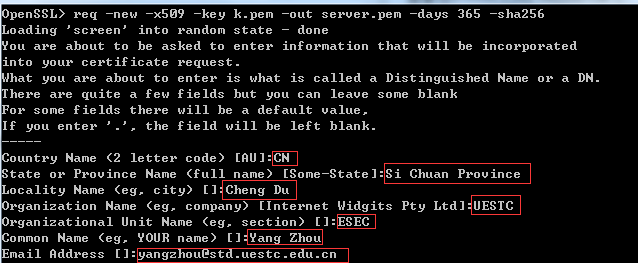
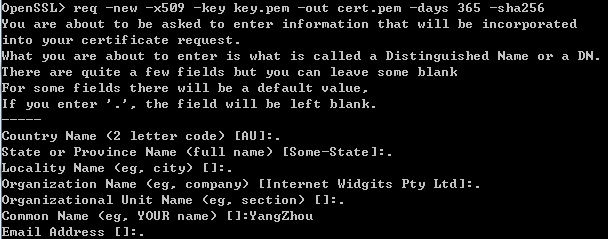
完成attestation证书生成并分析；上传了密钥文件和证书文件

Changed region(s): [[0.0, 0.0, 1.0, 1.0]]

diff --git a/doc/Attestation证书生成.md b/doc/Attestation证书生成.md
@@ -1,3 +1,4 @@
+*本文档使用openssl 1.0.2e*
 首先，打开openssl，使用命令：
 >ecparam -list_curves
 
@@ -7,22 +8,91 @@ u2f规范中对签名算法的要求是ECDSA signature(on P-256)，其实就是N
 然后输入：
 >ecparam -name secp256r1 -genkey -out key.pem
 
-就会生成公私钥文件key.pem。可以通过以下命令查看：
+就会生成公私钥文件key.pem。可以通过以下命令查看：  
 >ec -in key.pem -noout -text
 
 ![](./res/key.png)  
 私钥32字节，公钥65字节（https://www.ietf.org/rfc/rfc5480.txt，根据这个文献，公钥第一字节0x04表示uncompressed，如果是0x02 or 0x03则表示compressed，u2f要求是uncompressed）
 
 然后就可以开始生成自签名证书：  
->req -new -x509 -key k.pem -out server.pem -days 365 -sha256
+>req -new -x509 -key key.pem -out cert.pem -days 365 -sha256
 
-**注意，u2f对证书签名时所作hash算法没要求，但是最好是sha256，但是这里命令里的-sha256并没有作用，因为此版本openssl(0.9.8l)还不支持sha256**  
-然后会要求输入一堆信息，之后就会生成证书server.pem：
+~~**注意，u2f对证书签名时所作hash算法没要求，但是最好是sha256，但是这里命令里的-sha256并没有作用，因为此版本openssl(0.9.8l)还不支持sha256**~~  
+**openssl 1.0.2e支持sha256摘要**
+
+
+然后会要求输入一堆信息，之后就会生成证书cert.pem：
 ![](./res/gen-cert-input.png)  
 查看证书命令：
->x509 -in server.pem -text -noout
+>x509 -in cert.pem -text -noout
 
 ![](./res/cert-info.png)  
-可以注意到其中签名算法是ecdsa-with-sha1。
+可以注意到其中签名算法是ecdsa-with-sha256。**还要注意这里版本号是v1，如果要用v3的话，则在生成证书的命令里还要加上 -extensions v3_ca，但是这样就会有一部分证书扩展**
 
 **现在问题是，这些证书都是DER编码的。。。怎么转成二进制编码。。。**
+----
+上面这些命令生成的文件其实都是pem(Privacy Enhanced Mail)格式的。  
+
+**PEM** - Privacy Enhanced Mail,打开看文本格式,以"-----BEGIN..."开头, "-----END..."结尾,内容是BASE64编码.  
+查看PEM格式证书的信息:openssl x509 -in certificate.pem -text -noout  
+Apache和*NIX服务器偏向于使用这种编码格式.  
+**DER** - Distinguished Encoding Rules,打开看是二进制格式,不可读.  
+查看DER格式证书的信息:openssl x509 -in certificate.der -inform der -text -noout  
+
+####证书编码的转换
+**PEM转为DER** openssl x509 -in cert.pem -outform der -out cert.der  
+
+**DER转为PEM** openssl x509 -in cert.der -inform der -outform pem -out cert.pem
+
+下面将key.pem：  
+![](./res/key.png)  
+使用命令：
+>ec -in key.pem -outform der -out key.der
+
+之后用sublime打开key.der查看：  
+![](./res/key-binary.png)  
+可以看见30 77 02 01 01 04 20之后是私钥，这个前缀不知道是什么意思。  
+~~这个二进制文件相当长，因为它是带了证书扩展的。要去掉证书扩展，可以编辑openssl.cfg文件中，找到：~~
+~~>x509_extensions	= v3_ca	# The extentions to add to the self signed cert~~
+
+~~将其注释掉，之后再生成证书~~
+~~可以发现已经不带扩展。（版本为什么变成了V1？）~~  
+~~此时再转成DER文件，会发现二进制码少了很多。~~
+
+将证书使用命令：  
+>x509 -in cert.pem -outform der -out cert.der
+
+得到：  
+![](./res/cert-binary.png)  
+一共281字节
+>**下面来解析下这个证书(依据《PKI技术》 4.4 证书编码，是基于DER编码的)**
+>1： "30"表示证书整体上是一个SEQUENCE
+>2： "82"表示这个SEQUENCE的长度用"长形式"编码，且表示长度的字节码的长度为2字节
+>3-4： "01 15"表示SEQUENCE的长度为0x0115=279字节，其后就是SEQUENCE的Value部分，也就是证书的各个部分
+>5-7： "30 81 bc"表示其后的188字节应解码为一个SEQUENCE。
+>8-9： "02 09"表示其后是9字节的整数
+>10-18: "00 c5 f4 ee 4c 59 50 3e 05"表示serial number(**本来第一个应该是version，但是x509默认是v1，因此这里没有version号。如果是v3则会有。**)
+>19-20： "30 0a"，这是个SEQUENCE,有10字节
+>21-30："06082a8648ce3d040302"，这是个TLV，06表示OBJECT IDENTIFIER，08表示有8字节，根据证书格式，这个表示AlgorithmIdentifier，也就是ecdsa-with-SHA256的OID（见https://tools.ietf.org/html/rfc5758，3.2节）：1.2.840.10045.4.3.2。
+>31-32： "30 13"，这是个SEQUENCE，有19字节
+>33-34： "31 11"，这是个SET，有17字节
+>35-36： "30 0f"
+>37-43: "0603 5504 0313 08",不会解析了，反正就是issuer那部分。最后08表示issuer有8字节。
+>44-51："59 616e 675a 686f 75"，YangZhou
+>"30 1e17 0d31 3531 3230 3930 3730
+3435 385a 170d 3136 3132 3038 3037 3034
+3538 5a": validity字段
+>"30 1331 1130 0f06 0355 0403 1308
+5961 6e67 5a68 6f75": subject字段
+>"3059 3013 0607 2a86
+48ce 3d02 0106 082a 8648 ce3d 0301 0703
+4200": subjectPublicKeyInfo字段
+>公钥："0472 9a71 d081 6242 8492 f2d9 6192
+4d37 443a 4f1b da58 0f8a ea29 20d2 997c
+bea4 3960 ce72 9e35 c1f7 4092 f225 0e60
+7482 3fc5 7f33 60b7 cd39 69c3 c312 5ece
+265c 29"
+>最后71字节是签名。（官方给的例子是70字节，我在网上自己签名是72字节，都不一样长，这是因为ecdsa算法的特性决定的）
+
+
+好复杂，后面就不解析了。。。
